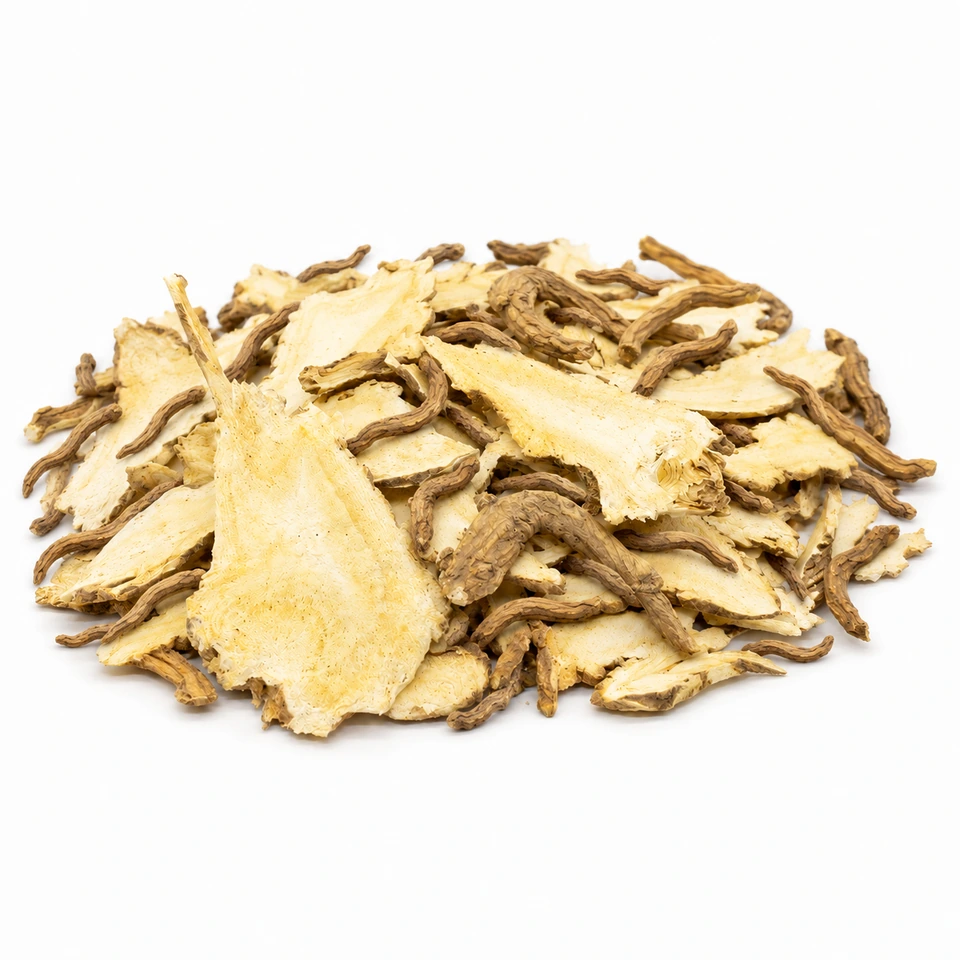
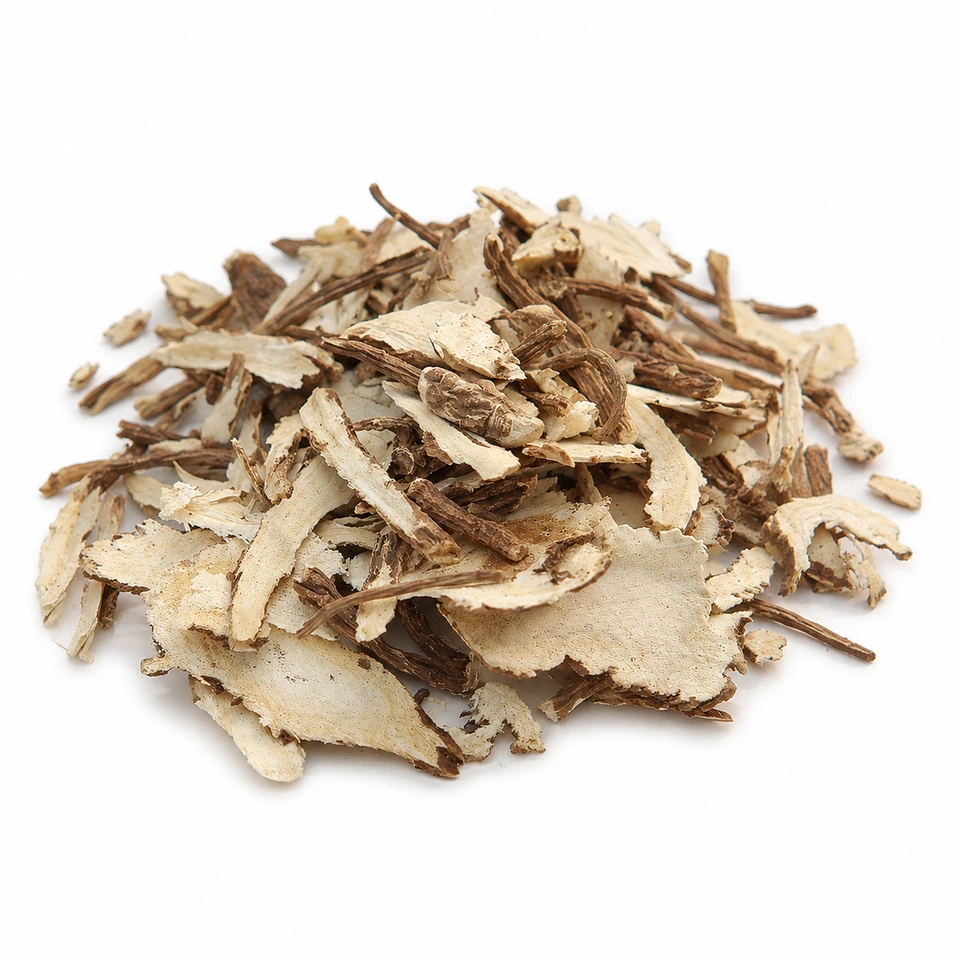
Refresh domestic angelica and fuller body slice photos from approved references

diff --git a/app/ProductImage.js b/app/ProductImage.js
@@ -8,7 +8,7 @@ export default function ProductImage({ src, name, origin }) {
   const visible = Boolean(src) && !failed;
   const reference = src?.startsWith("/products-reference/");
   const localPhoto = reference || src?.startsWith("/products/");
-  const imageSrc = localPhoto ? `${src}${src.includes("?") ? "&" : "?"}photo=${src.split("?")[0] === "/products-reference/uniform-20261029/herb-001.webp" ? "gaja-20261117-v1" : src.split("?")[0] === "/products-reference/uniform-20261029/herb-003-v2.webp" ? "galgeun-20261117-v1" : src.split("?")[0] === "/products-reference/uniform-20261029/herb-004.webp" ? "galhwa-20261118-v1" : src.split("?")[0] === "/products-reference/uniform-20261029/herb-005.webp" ? "gamguk-20261118-v1" : src.split("?")[0] === "/products-reference/uniform-20261029/gamin-geomin.webp" ? "geomin-20261118-v1" : src.split("?")[0] === "/products-reference/uniform-20261029/herb-007.webp" ? "licorice-20261118-v1" : src.split("?")[0] === "/products-reference/uniform-20261029/gamcho-yangwai1-20261118.webp" ? "yangwai1-20261118-v3" : src.split("?")[0] === "/products-reference/uniform-20261029/gamcho-roasted-v2.webp" ? "roasted-20261118-v2" : src.split("?")[0].startsWith("/products-reference/uniform-20261029/gamcho-roasted-") ? "roasted-20261118-v2" : src.split("?")[0] === "/products-reference/uniform-20261029/herb-008.webp" ? "ganghwal-20261118-v1" : src.split("?")[0] === "/products-reference/uniform-20261029/herb-009-v2.webp" ? "jamganghwal-20261118-v3" : src.split("?")[0] === "/products-reference/uniform-20261029/herb-010.webp" ? "ganghwang-20261118-v2" : src.split("?")[0] === "/products-reference/uniform-20261029/herb-011.webp" ? "gaeja-20261118-v1" : src.split("?")[0] === "/products-reference/uniform-20261029/herb-012.webp" ? "ginger-20261118-v3" : src.split("?")[0] === "/products-reference/uniform-20261029/herb-013-v2.webp" ? "ginger-roasted-20261118-v1" : src.split("?")[0] === "/products-reference/uniform-20261029/ginger-domestic-20261118.webp" ? "ginger-domestic-20261118-v2" : src.split("?")[0] === "/products-reference/uniform-20261029/herb-014-v3.webp" ? "chestnut-20261118-v1" : src.split("?")[0] === "/products-reference/uniform-20261029/herb-015-v2.webp" ? "pharbitis-20261118-v1" : src.split("?")[0] === "/products-reference/uniform-20261029/herb-016.webp" ? "cassia-20261118-v1" : src.split("?")[0] === "/products-reference/uniform-20261029/herb-017-v2.webp" ? "gizzard-20261118-v1" : src.split("?")[0] === "/products-reference/uniform-20261029/herb-018-v2.webp" ? "gizzard-roasted-20261118-v1" : src.split("?")[0] === "/products-reference/uniform-20261029/herb-019-v3.webp" ? "twig-20261118-v1" : src.split("?")[0] === "/products-reference/uniform-20261029/herb-020.webp" ? "vine-20261118-v1" : src.split("?")[0] === "/products-reference/uniform-20261029/herb-021.webp" ? "galangal-20261118-v1" : src.split("?")[0] === "/products-reference/uniform-20261029/gobon-domestic-20261118.webp" ? "gobon-dom-20261118-v1" : src.split("?")[0] === "/products-reference/uniform-20261029/herb-022.webp" ? "gobon-imp-20261118-v1" : src.split("?")[0] === "/products-reference/uniform-20261029/herb-023-v2.webp" ? "sophora-20261118-v1" : src.split("?")[0] === "/products-reference/uniform-20261029/herb-024-v2.webp" ? "mistletoe-20261118-v1" : src.split("?")[0] === "/products-reference/uniform-20261029/herb-025.webp" ? "rice-20261118-v1" : src.split("?")[0] === "/products-reference/uniform-20261029/herb-026-v2.webp" ? "drynaria-20261118-v1" : src.split("?")[0] === "/products-reference/uniform-20261029/herb-027-v2.webp" ? "fruit-20261118-v1" : src.split("?")[0] === "/products-reference/uniform-20261029/gwakhyang.webp" ? "agastache-20261118-v1" : src.split("?")[0] === "/products-reference/uniform-20261029/herb-028-v2.webp" ? "coltsfoot-20261118-v1" : src.split("?")[0] === "/products-reference/uniform-20261029/gwallugeun-domestic-20261118.webp" ? "trich-dom-20261118-v1" : src.split("?")[0] === "/products-reference/uniform-20261029/herb-029-v2.webp" ? "trich-imp-20261118-v1" : src.split("?")[0] === "/products-reference/uniform-20261029/herb-031.webp" ? "seed-whole-20261119-v1" : src.split("?")[0] === "/products-reference/uniform-20261029/herb-030-v2.webp" ? "seed-coarse-20261119-v1" : src.split("?")[0] === "/products-reference/uniform-20261029/herb-032-v3.webp" ? "patchouli-20261119-v1" : src.split("?")[0] === "/products-reference/uniform-20261029/herb-033-v3.webp" ? "sophorabud-20261119-v1" : src.split("?")[0] === "/products-reference/uniform-20261029/gugija-domestic-20261119.webp" ? "goji-dom-20261119-v1" : src.split("?")[0] === "/products-reference/uniform-20261029/gugija-large-20261119.webp" ? "goji-large-20261119-v1" : src.split("?")[0] === "/products-reference/uniform-20261029/gugija-premium-20261119.webp" ? "goji-premium-20261119-v2" : src.split("?")[0] === "/products-reference/uniform-20261029/herb-035-v2.webp" ? "dianthus-20261119-v1" : src.split("?")[0] === "/products-reference/uniform-20261029/herb-036.webp" ? "chiveseed-20261119-v1" : src.split("?")[0] === "/products-reference/uniform-20261029/gujeolcho.webp" ? "gujeolcho-20261119-v1" : src.split("?")[0] === "/products-reference/uniform-20261029/herb-037-v2.webp" ? "cibotium-20261119-v1" : src.split("?")[0] === "/products-reference/uniform-20261029/herb-038.webp" ? "plastron-20261119-v1" : src.split("?")[0] === "/products-reference/uniform-20261029/herb-040-v2.webp" ? "rosefruit-20261119-v1" : src.split("?")[0] === "/products-reference/uniform-20261029/herb-041-v3.webp" ? "honeysuckle-20261119-v1" : src.split("?")[0] === "/products-reference/uniform-20261029/herb-042.webp" ? "lysimachia-20261119-v1" : src.split("?")[0] === "/products-reference/uniform-20261029/gilgyeong-domestic-20261119.webp" ? "platy-dom-20261119-v1" : src.split("?")[0] === "/products-reference/uniform-20261029/herb-043-v2.webp" ? "platy-imp-20261119-v1" : src.split("?")[0] === "/products-reference/uniform-20261029/herb-044-v2.webp" ? "radish-20261119-v2" : src.split("?")[0] === "/products-reference/uniform-20261029/herb-048-v2.webp" ? "radish-coarse-20261119-v1" : src.split("?")[0] === "/products-reference/uniform-20261029/herb-046-v2.webp" ? "arisaema-20261119-v1" : src.split("?")[0] === "/products-reference/uniform-20261029/herb-047-v2.webp" ? "arisaema-alum-20261119-v1" : src.split("?")[0] === "/products-reference/uniform-20261029/herb-045-v2.webp" ? "vinecut-20261119-v1" : src.split("?")[0] === "/products-reference/uniform-20261029/herb-049-v2.webp" ? "radish-roasted-20261119-v2" : src.split("?")[0] === "/products-reference/uniform-20261029/herb-050-v2.webp" ? "reed-20261119-v1" : src.split("?")[0] === "/products-reference/uniform-20261029/herb-051-v2.webp" ? "antler-package-20261119-v1" : src.split("?")[0] === "/products-reference/uniform-20261029/herb-052-v2.webp" ? "salvia-20261119-v1" : src.split("?")[0] === "/products-reference/uniform-20261029/danggui-domestic-20261119.webp" ? "angel-dom-20261119-v1" : src.split("?")[0] === "/products-reference/uniform-20261029/herb-056-v2.webp" ? "angel-tail-20261119-v1" : src.split("?")[0] === "/products-reference/uniform-20261029/herb-054-v2.webp" ? "angel-imp-20261119-v1" : src.split("?")[0] === "/products-reference/uniform-20261029/herb-057.webp" ? "angel-body-20261119-v1" : src.split("?")[0] === "/products-reference/uniform-20261029/damdusi-package-20261119.webp" ? "soypackage-20261119-v1" : "linen-20261116-v2"}` : src;
+  const imageSrc = localPhoto ? `${src}${src.includes("?") ? "&" : "?"}photo=${src.split("?")[0] === "/products-reference/uniform-20261029/herb-001.webp" ? "gaja-20261117-v1" : src.split("?")[0] === "/products-reference/uniform-20261029/herb-003-v2.webp" ? "galgeun-20261117-v1" : src.split("?")[0] === "/products-reference/uniform-20261029/herb-004.webp" ? "galhwa-20261118-v1" : src.split("?")[0] === "/products-reference/uniform-20261029/herb-005.webp" ? "gamguk-20261118-v1" : src.split("?")[0] === "/products-reference/uniform-20261029/gamin-geomin.webp" ? "geomin-20261118-v1" : src.split("?")[0] === "/products-reference/uniform-20261029/herb-007.webp" ? "licorice-20261118-v1" : src.split("?")[0] === "/products-reference/uniform-20261029/gamcho-yangwai1-20261118.webp" ? "yangwai1-20261118-v3" : src.split("?")[0] === "/products-reference/uniform-20261029/gamcho-roasted-v2.webp" ? "roasted-20261118-v2" : src.split("?")[0].startsWith("/products-reference/uniform-20261029/gamcho-roasted-") ? "roasted-20261118-v2" : src.split("?")[0] === "/products-reference/uniform-20261029/herb-008.webp" ? "ganghwal-20261118-v1" : src.split("?")[0] === "/products-reference/uniform-20261029/herb-009-v2.webp" ? "jamganghwal-20261118-v3" : src.split("?")[0] === "/products-reference/uniform-20261029/herb-010.webp" ? "ganghwang-20261118-v2" : src.split("?")[0] === "/products-reference/uniform-20261029/herb-011.webp" ? "gaeja-20261118-v1" : src.split("?")[0] === "/products-reference/uniform-20261029/herb-012.webp" ? "ginger-20261118-v3" : src.split("?")[0] === "/products-reference/uniform-20261029/herb-013-v2.webp" ? "ginger-roasted-20261118-v1" : src.split("?")[0] === "/products-reference/uniform-20261029/ginger-domestic-20261118.webp" ? "ginger-domestic-20261118-v2" : src.split("?")[0] === "/products-reference/uniform-20261029/herb-014-v3.webp" ? "chestnut-20261118-v1" : src.split("?")[0] === "/products-reference/uniform-20261029/herb-015-v2.webp" ? "pharbitis-20261118-v1" : src.split("?")[0] === "/products-reference/uniform-20261029/herb-016.webp" ? "cassia-20261118-v1" : src.split("?")[0] === "/products-reference/uniform-20261029/herb-017-v2.webp" ? "gizzard-20261118-v1" : src.split("?")[0] === "/products-reference/uniform-20261029/herb-018-v2.webp" ? "gizzard-roasted-20261118-v1" : src.split("?")[0] === "/products-reference/uniform-20261029/herb-019-v3.webp" ? "twig-20261118-v1" : src.split("?")[0] === "/products-reference/uniform-20261029/herb-020.webp" ? "vine-20261118-v1" : src.split("?")[0] === "/products-reference/uniform-20261029/herb-021.webp" ? "galangal-20261118-v1" : src.split("?")[0] === "/products-reference/uniform-20261029/gobon-domestic-20261118.webp" ? "gobon-dom-20261118-v1" : src.split("?")[0] === "/products-reference/uniform-20261029/herb-022.webp" ? "gobon-imp-20261118-v1" : src.split("?")[0] === "/products-reference/uniform-20261029/herb-023-v2.webp" ? "sophora-20261118-v1" : src.split("?")[0] === "/products-reference/uniform-20261029/herb-024-v2.webp" ? "mistletoe-20261118-v1" : src.split("?")[0] === "/products-reference/uniform-20261029/herb-025.webp" ? "rice-20261118-v1" : src.split("?")[0] === "/products-reference/uniform-20261029/herb-026-v2.webp" ? "drynaria-20261118-v1" : src.split("?")[0] === "/products-reference/uniform-20261029/herb-027-v2.webp" ? "fruit-20261118-v1" : src.split("?")[0] === "/products-reference/uniform-20261029/gwakhyang.webp" ? "agastache-20261118-v1" : src.split("?")[0] === "/products-reference/uniform-20261029/herb-028-v2.webp" ? "coltsfoot-20261118-v1" : src.split("?")[0] === "/products-reference/uniform-20261029/gwallugeun-domestic-20261118.webp" ? "trich-dom-20261118-v1" : src.split("?")[0] === "/products-reference/uniform-20261029/herb-029-v2.webp" ? "trich-imp-20261118-v1" : src.split("?")[0] === "/products-reference/uniform-20261029/herb-031.webp" ? "seed-whole-20261119-v1" : src.split("?")[0] === "/products-reference/uniform-20261029/herb-030-v2.webp" ? "seed-coarse-20261119-v1" : src.split("?")[0] === "/products-reference/uniform-20261029/herb-032-v3.webp" ? "patchouli-20261119-v1" : src.split("?")[0] === "/products-reference/uniform-20261029/herb-033-v3.webp" ? "sophorabud-20261119-v1" : src.split("?")[0] === "/products-reference/uniform-20261029/gugija-domestic-20261119.webp" ? "goji-dom-20261119-v1" : src.split("?")[0] === "/products-reference/uniform-20261029/gugija-large-20261119.webp" ? "goji-large-20261119-v1" : src.split("?")[0] === "/products-reference/uniform-20261029/gugija-premium-20261119.webp" ? "goji-premium-20261119-v2" : src.split("?")[0] === "/products-reference/uniform-20261029/herb-035-v2.webp" ? "dianthus-20261119-v1" : src.split("?")[0] === "/products-reference/uniform-20261029/herb-036.webp" ? "chiveseed-20261119-v1" : src.split("?")[0] === "/products-reference/uniform-20261029/gujeolcho.webp" ? "gujeolcho-20261119-v1" : src.split("?")[0] === "/products-reference/uniform-20261029/herb-037-v2.webp" ? "cibotium-20261119-v1" : src.split("?")[0] === "/products-reference/uniform-20261029/herb-038.webp" ? "plastron-20261119-v1" : src.split("?")[0] === "/products-reference/uniform-20261029/herb-040-v2.webp" ? "rosefruit-20261119-v1" : src.split("?")[0] === "/products-reference/uniform-20261029/herb-041-v3.webp" ? "honeysuckle-20261119-v1" : src.split("?")[0] === "/products-reference/uniform-20261029/herb-042.webp" ? "lysimachia-20261119-v1" : src.split("?")[0] === "/products-reference/uniform-20261029/gilgyeong-domestic-20261119.webp" ? "platy-dom-20261119-v1" : src.split("?")[0] === "/products-reference/uniform-20261029/herb-043-v2.webp" ? "platy-imp-20261119-v1" : src.split("?")[0] === "/products-reference/uniform-20261029/herb-044-v2.webp" ? "radish-20261119-v2" : src.split("?")[0] === "/products-reference/uniform-20261029/herb-048-v2.webp" ? "radish-coarse-20261119-v1" : src.split("?")[0] === "/products-reference/uniform-20261029/herb-046-v2.webp" ? "arisaema-20261119-v1" : src.split("?")[0] === "/products-reference/uniform-20261029/herb-047-v2.webp" ? "arisaema-alum-20261119-v1" : src.split("?")[0] === "/products-reference/uniform-20261029/herb-045-v2.webp" ? "vinecut-20261119-v1" : src.split("?")[0] === "/products-reference/uniform-20261029/herb-049-v2.webp" ? "radish-roasted-20261119-v2" : src.split("?")[0] === "/products-reference/uniform-20261029/herb-050-v2.webp" ? "reed-20261119-v1" : src.split("?")[0] === "/products-reference/uniform-20261029/herb-051-v2.webp" ? "antler-package-20261119-v1" : src.split("?")[0] === "/products-reference/uniform-20261029/herb-052-v2.webp" ? "salvia-20261119-v1" : src.split("?")[0] === "/products-reference/uniform-20261029/danggui-domestic-20261119.webp" ? "angel-dom-20261119-v2" : src.split("?")[0] === "/products-reference/uniform-20261029/herb-056-v2.webp" ? "angel-tail-20261119-v1" : src.split("?")[0] === "/products-reference/uniform-20261029/herb-054-v2.webp" ? "angel-imp-20261119-v1" : src.split("?")[0] === "/products-reference/uniform-20261029/herb-057.webp" ? "angel-body-20261119-v2" : src.split("?")[0] === "/products-reference/uniform-20261029/damdusi-package-20261119.webp" ? "soypackage-20261119-v1" : "linen-20261116-v2"}` : src;
   const domesticGalgeun = /^갈근(?:\s*\((?:사각|강원문막)\))?$/.test(name || "")
     && /국내산|국산|한국|대한민국/.test(origin || "")
     && src?.split("?")[0] === "/products-reference/uniform-20261029/herb-003-v2.webp";
